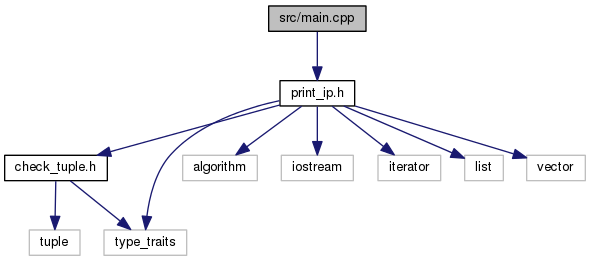
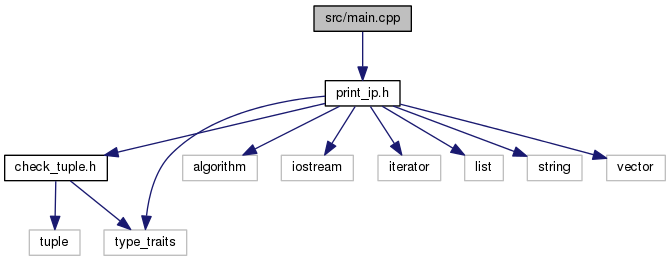
Deploy ithamsteri/homework_04 to github.com/ithamsteri/homework_04.git:gh-pages

diff --git a/print__ip_8h_source.html b/print__ip_8h_source.html
@@ -97,75 +97,76 @@ var searchBox = new SearchBox("searchBox", "search",false,'Search');
 <div class="line"><a name="l00013"></a><span class="lineno">   13</span>&#160;<span class="preprocessor">#include &lt;iostream&gt;</span></div>
 <div class="line"><a name="l00014"></a><span class="lineno">   14</span>&#160;<span class="preprocessor">#include &lt;iterator&gt;</span></div>
 <div class="line"><a name="l00015"></a><span class="lineno">   15</span>&#160;<span class="preprocessor">#include &lt;list&gt;</span></div>
-<div class="line"><a name="l00016"></a><span class="lineno">   16</span>&#160;<span class="preprocessor">#include &lt;type_traits&gt;</span></div>
-<div class="line"><a name="l00017"></a><span class="lineno">   17</span>&#160;<span class="preprocessor">#include &lt;vector&gt;</span></div>
-<div class="line"><a name="l00018"></a><span class="lineno">   18</span>&#160;</div>
-<div class="line"><a name="l00023"></a><span class="lineno">   23</span>&#160;<span class="keyword">template</span>&lt;<span class="keyword">typename</span> T&gt;</div>
-<div class="line"><a name="l00024"></a><span class="lineno">   24</span>&#160;<span class="keyword">typename</span> std::enable_if&lt;std::is_integral&lt;T&gt;::value, <span class="keywordtype">void</span>&gt;::type</div>
-<div class="line"><a name="l00025"></a><span class="lineno"><a class="line" href="print__ip_8h.html#a8711f0feb7bb037c76f5405afbf43814">   25</a></span>&#160;<a class="code" href="print__ip_8h.html#a8711f0feb7bb037c76f5405afbf43814">print_ip</a>(<span class="keyword">const</span> T&amp; value)</div>
-<div class="line"><a name="l00026"></a><span class="lineno">   26</span>&#160;{</div>
-<div class="line"><a name="l00027"></a><span class="lineno">   27</span>&#160;  <span class="keyword">auto</span> pLow = <span class="keyword">reinterpret_cast&lt;</span><span class="keyword">const </span><span class="keywordtype">unsigned</span> <span class="keywordtype">char</span>*<span class="keyword">&gt;</span>(&amp;value);</div>
-<div class="line"><a name="l00028"></a><span class="lineno">   28</span>&#160;  <span class="keyword">auto</span> pHigh = <span class="keyword">reinterpret_cast&lt;</span><span class="keyword">const </span><span class="keywordtype">unsigned</span> <span class="keywordtype">char</span>*<span class="keyword">&gt;</span>(&amp;value) + <span class="keyword">sizeof</span>(value);</div>
-<div class="line"><a name="l00029"></a><span class="lineno">   29</span>&#160;</div>
-<div class="line"><a name="l00030"></a><span class="lineno">   30</span>&#160;  <span class="comment">// print value from high byte to low byte</span></div>
-<div class="line"><a name="l00031"></a><span class="lineno">   31</span>&#160;  std::reverse_copy(pLow + 1, pHigh, std::ostream_iterator&lt;int&gt;(std::cout, <span class="stringliteral">&quot;.&quot;</span>));</div>
-<div class="line"><a name="l00032"></a><span class="lineno">   32</span>&#160;  std::cout &lt;&lt; static_cast&lt;int&gt;(*pLow) &lt;&lt; std::endl;</div>
-<div class="line"><a name="l00033"></a><span class="lineno">   33</span>&#160;}</div>
-<div class="line"><a name="l00034"></a><span class="lineno">   34</span>&#160;</div>
-<div class="line"><a name="l00038"></a><span class="lineno">   38</span>&#160;<span class="keywordtype">void</span></div>
-<div class="line"><a name="l00039"></a><span class="lineno"><a class="line" href="print__ip_8h.html#a3ad0eae435774cb3406a11cd0303ec0c">   39</a></span>&#160;<a class="code" href="print__ip_8h.html#a8711f0feb7bb037c76f5405afbf43814">print_ip</a>(<span class="keyword">const</span> std::string&amp; str)</div>
-<div class="line"><a name="l00040"></a><span class="lineno">   40</span>&#160;{</div>
-<div class="line"><a name="l00041"></a><span class="lineno">   41</span>&#160;  std::cout &lt;&lt; str &lt;&lt; std::endl;</div>
-<div class="line"><a name="l00042"></a><span class="lineno">   42</span>&#160;}</div>
-<div class="line"><a name="l00043"></a><span class="lineno">   43</span>&#160;</div>
-<div class="line"><a name="l00047"></a><span class="lineno">   47</span>&#160;<span class="keyword">template</span>&lt;<span class="keyword">typename</span> T&gt;</div>
-<div class="line"><a name="l00048"></a><span class="lineno">   48</span>&#160;<span class="keyword">typename</span> std::enable_if&lt;std::is_same&lt;std::vector&lt;typename T::value_type&gt;, T&gt;::value ||</div>
-<div class="line"><a name="l00049"></a><span class="lineno">   49</span>&#160;                          std::is_same&lt;std::list&lt;typename T::value_type&gt;, T&gt;::value,</div>
-<div class="line"><a name="l00050"></a><span class="lineno">   50</span>&#160;                        <span class="keywordtype">void</span>&gt;::type</div>
-<div class="line"><a name="l00051"></a><span class="lineno"><a class="line" href="print__ip_8h.html#a127903f98782bb43faf59689d8d1fc06">   51</a></span>&#160;<a class="code" href="print__ip_8h.html#a8711f0feb7bb037c76f5405afbf43814">print_ip</a>(<span class="keyword">const</span> T&amp; value)</div>
-<div class="line"><a name="l00052"></a><span class="lineno">   52</span>&#160;{</div>
-<div class="line"><a name="l00053"></a><span class="lineno">   53</span>&#160;  <span class="keywordflow">for</span> (<span class="keyword">const</span> <span class="keyword">auto</span>&amp; ip : value)</div>
-<div class="line"><a name="l00054"></a><span class="lineno">   54</span>&#160;    <a class="code" href="print__ip_8h.html#a8711f0feb7bb037c76f5405afbf43814">print_ip</a>(ip);</div>
-<div class="line"><a name="l00055"></a><span class="lineno">   55</span>&#160;}</div>
-<div class="line"><a name="l00056"></a><span class="lineno">   56</span>&#160;</div>
-<div class="line"><a name="l00057"></a><span class="lineno">   57</span>&#160;<span class="keyword">template</span>&lt;<span class="keywordtype">int</span> index, <span class="keyword">typename</span>... Ts&gt;</div>
-<div class="line"><a name="l00058"></a><span class="lineno"><a class="line" href="structprint__tuple.html">   58</a></span>&#160;<span class="keyword">struct </span><a class="code" href="structprint__tuple.html">print_tuple</a></div>
-<div class="line"><a name="l00059"></a><span class="lineno">   59</span>&#160;{</div>
-<div class="line"><a name="l00060"></a><span class="lineno"><a class="line" href="structprint__tuple.html#a686770e7b8eb33a8a94d976977be1016">   60</a></span>&#160;  <span class="keywordtype">void</span> <a class="code" href="structprint__tuple.html#a686770e7b8eb33a8a94d976977be1016">operator()</a>(<span class="keyword">const</span> std::tuple&lt;Ts...&gt;&amp; t)</div>
-<div class="line"><a name="l00061"></a><span class="lineno">   61</span>&#160;  {</div>
-<div class="line"><a name="l00062"></a><span class="lineno">   62</span>&#160;    <a class="code" href="structprint__tuple.html">print_tuple</a>&lt;index - 1, Ts...&gt;{}(t);</div>
-<div class="line"><a name="l00063"></a><span class="lineno">   63</span>&#160;    <a class="code" href="print__ip_8h.html#a8711f0feb7bb037c76f5405afbf43814">print_ip</a>(std::get&lt;index&gt;(t));</div>
-<div class="line"><a name="l00064"></a><span class="lineno">   64</span>&#160;  }</div>
-<div class="line"><a name="l00065"></a><span class="lineno">   65</span>&#160;};</div>
-<div class="line"><a name="l00066"></a><span class="lineno">   66</span>&#160;</div>
-<div class="line"><a name="l00067"></a><span class="lineno">   67</span>&#160;<span class="keyword">template</span>&lt;<span class="keyword">typename</span>... Ts&gt;</div>
-<div class="line"><a name="l00068"></a><span class="lineno"><a class="line" href="structprint__tuple_3_010_00_01Ts_8_8_8_4.html">   68</a></span>&#160;<span class="keyword">struct </span><a class="code" href="structprint__tuple.html">print_tuple</a>&lt;0, Ts...&gt;</div>
-<div class="line"><a name="l00069"></a><span class="lineno">   69</span>&#160;{</div>
-<div class="line"><a name="l00070"></a><span class="lineno"><a class="line" href="structprint__tuple_3_010_00_01Ts_8_8_8_4.html#a4a96810e772a3ee3db9638ed41b547c8">   70</a></span>&#160;  <span class="keywordtype">void</span> <a class="code" href="structprint__tuple_3_010_00_01Ts_8_8_8_4.html#a4a96810e772a3ee3db9638ed41b547c8">operator()</a>(<span class="keyword">const</span> std::tuple&lt;Ts...&gt;&amp; t) { <a class="code" href="print__ip_8h.html#a8711f0feb7bb037c76f5405afbf43814">print_ip</a>(std::get&lt;0&gt;(t)); }</div>
-<div class="line"><a name="l00071"></a><span class="lineno">   71</span>&#160;};</div>
-<div class="line"><a name="l00072"></a><span class="lineno">   72</span>&#160;</div>
-<div class="line"><a name="l00073"></a><span class="lineno">   73</span>&#160;<span class="keyword">template</span>&lt;<span class="keyword">typename</span>... Ts&gt;</div>
-<div class="line"><a name="l00074"></a><span class="lineno">   74</span>&#160;<span class="keywordtype">void</span></div>
-<div class="line"><a name="l00075"></a><span class="lineno"><a class="line" href="print__ip_8h.html#a54d46b202f963216604da44f69397bb7">   75</a></span>&#160;<a class="code" href="print__ip_8h.html#a54d46b202f963216604da44f69397bb7">print</a>(<span class="keyword">const</span> std::tuple&lt;Ts...&gt;&amp; t)</div>
-<div class="line"><a name="l00076"></a><span class="lineno">   76</span>&#160;{</div>
-<div class="line"><a name="l00077"></a><span class="lineno">   77</span>&#160;  <span class="keyword">const</span> <span class="keyword">auto</span> size = std::tuple_size&lt;std::tuple&lt;Ts...&gt;&gt;::value;</div>
-<div class="line"><a name="l00078"></a><span class="lineno">   78</span>&#160;  <a class="code" href="structprint__tuple.html">print_tuple</a>&lt;size - 1, Ts...&gt;{}(t);</div>
-<div class="line"><a name="l00079"></a><span class="lineno">   79</span>&#160;}</div>
-<div class="line"><a name="l00080"></a><span class="lineno">   80</span>&#160;</div>
-<div class="line"><a name="l00084"></a><span class="lineno">   84</span>&#160;<span class="keyword">template</span>&lt;<span class="keyword">typename</span> T, <span class="keyword">typename</span>... Ts&gt;</div>
-<div class="line"><a name="l00085"></a><span class="lineno">   85</span>&#160;<span class="keyword">typename</span> std::enable_if&lt;is_onetype_tuple&lt;T&gt;::value, <span class="keywordtype">void</span>&gt;::type</div>
-<div class="line"><a name="l00086"></a><span class="lineno"><a class="line" href="print__ip_8h.html#a7bfbb8e753c397846c26816b49ebba79">   86</a></span>&#160;<a class="code" href="print__ip_8h.html#a8711f0feb7bb037c76f5405afbf43814">print_ip</a>(<span class="keyword">const</span> T&amp; tuple)</div>
-<div class="line"><a name="l00087"></a><span class="lineno">   87</span>&#160;{</div>
-<div class="line"><a name="l00088"></a><span class="lineno">   88</span>&#160;  <a class="code" href="print__ip_8h.html#a54d46b202f963216604da44f69397bb7">print</a>(tuple);</div>
-<div class="line"><a name="l00089"></a><span class="lineno">   89</span>&#160;};</div>
-<div class="line"><a name="l00090"></a><span class="lineno">   90</span>&#160;</div>
-<div class="line"><a name="l00091"></a><span class="lineno">   91</span>&#160;<span class="preprocessor">#endif // PRINT_IP_H</span></div>
+<div class="line"><a name="l00016"></a><span class="lineno">   16</span>&#160;<span class="preprocessor">#include &lt;string&gt;</span></div>
+<div class="line"><a name="l00017"></a><span class="lineno">   17</span>&#160;<span class="preprocessor">#include &lt;type_traits&gt;</span></div>
+<div class="line"><a name="l00018"></a><span class="lineno">   18</span>&#160;<span class="preprocessor">#include &lt;vector&gt;</span></div>
+<div class="line"><a name="l00019"></a><span class="lineno">   19</span>&#160;</div>
+<div class="line"><a name="l00024"></a><span class="lineno">   24</span>&#160;<span class="keyword">template</span>&lt;<span class="keyword">typename</span> T&gt;</div>
+<div class="line"><a name="l00025"></a><span class="lineno">   25</span>&#160;<span class="keyword">typename</span> std::enable_if_t&lt;std::is_integral_v&lt;T&gt;, <span class="keywordtype">void</span>&gt;</div>
+<div class="line"><a name="l00026"></a><span class="lineno"><a class="line" href="print__ip_8h.html#a0fd1687febc6c7891345f3ef89208005">   26</a></span>&#160;<a class="code" href="print__ip_8h.html#a0fd1687febc6c7891345f3ef89208005">print_ip</a>(<span class="keyword">const</span> T&amp; value)</div>
+<div class="line"><a name="l00027"></a><span class="lineno">   27</span>&#160;{</div>
+<div class="line"><a name="l00028"></a><span class="lineno">   28</span>&#160;  <span class="keyword">auto</span> pLow = <span class="keyword">reinterpret_cast&lt;</span><span class="keyword">const </span><span class="keywordtype">unsigned</span> <span class="keywordtype">char</span>*<span class="keyword">&gt;</span>(&amp;value);</div>
+<div class="line"><a name="l00029"></a><span class="lineno">   29</span>&#160;  <span class="keyword">auto</span> pHigh = <span class="keyword">reinterpret_cast&lt;</span><span class="keyword">const </span><span class="keywordtype">unsigned</span> <span class="keywordtype">char</span>*<span class="keyword">&gt;</span>(&amp;value) + <span class="keyword">sizeof</span>(value);</div>
+<div class="line"><a name="l00030"></a><span class="lineno">   30</span>&#160;</div>
+<div class="line"><a name="l00031"></a><span class="lineno">   31</span>&#160;  <span class="comment">// print value from high byte to low byte</span></div>
+<div class="line"><a name="l00032"></a><span class="lineno">   32</span>&#160;  std::reverse_copy(pLow + 1, pHigh, std::ostream_iterator&lt;int&gt;(std::cout, <span class="stringliteral">&quot;.&quot;</span>));</div>
+<div class="line"><a name="l00033"></a><span class="lineno">   33</span>&#160;  std::cout &lt;&lt; static_cast&lt;int&gt;(*pLow) &lt;&lt; std::endl;</div>
+<div class="line"><a name="l00034"></a><span class="lineno">   34</span>&#160;}</div>
+<div class="line"><a name="l00035"></a><span class="lineno">   35</span>&#160;</div>
+<div class="line"><a name="l00039"></a><span class="lineno">   39</span>&#160;<span class="keywordtype">void</span></div>
+<div class="line"><a name="l00040"></a><span class="lineno"><a class="line" href="print__ip_8h.html#a3ad0eae435774cb3406a11cd0303ec0c">   40</a></span>&#160;<a class="code" href="print__ip_8h.html#a0fd1687febc6c7891345f3ef89208005">print_ip</a>(<span class="keyword">const</span> std::string&amp; str)</div>
+<div class="line"><a name="l00041"></a><span class="lineno">   41</span>&#160;{</div>
+<div class="line"><a name="l00042"></a><span class="lineno">   42</span>&#160;  std::cout &lt;&lt; str &lt;&lt; std::endl;</div>
+<div class="line"><a name="l00043"></a><span class="lineno">   43</span>&#160;}</div>
+<div class="line"><a name="l00044"></a><span class="lineno">   44</span>&#160;</div>
+<div class="line"><a name="l00048"></a><span class="lineno">   48</span>&#160;<span class="keyword">template</span>&lt;<span class="keyword">typename</span> T&gt;</div>
+<div class="line"><a name="l00049"></a><span class="lineno">   49</span>&#160;<span class="keyword">typename</span> std::enable_if_t&lt;std::is_same_v&lt;std::vector&lt;typename T::value_type, typename T::allocator_type&gt;, T&gt; ||</div>
+<div class="line"><a name="l00050"></a><span class="lineno">   50</span>&#160;                            std::is_same_v&lt;std::list&lt;typename T::value_type, typename T::allocator_type&gt;, T&gt;,</div>
+<div class="line"><a name="l00051"></a><span class="lineno">   51</span>&#160;                          <span class="keywordtype">void</span>&gt;</div>
+<div class="line"><a name="l00052"></a><span class="lineno"><a class="line" href="print__ip_8h.html#af292a446ff13bce3e6269efee458f030">   52</a></span>&#160;<a class="code" href="print__ip_8h.html#a0fd1687febc6c7891345f3ef89208005">print_ip</a>(<span class="keyword">const</span> T&amp; value)</div>
+<div class="line"><a name="l00053"></a><span class="lineno">   53</span>&#160;{</div>
+<div class="line"><a name="l00054"></a><span class="lineno">   54</span>&#160;  <span class="keywordflow">for</span> (<span class="keyword">const</span> <span class="keyword">auto</span>&amp; ip : value)</div>
+<div class="line"><a name="l00055"></a><span class="lineno">   55</span>&#160;    <a class="code" href="print__ip_8h.html#a0fd1687febc6c7891345f3ef89208005">print_ip</a>(ip);</div>
+<div class="line"><a name="l00056"></a><span class="lineno">   56</span>&#160;}</div>
+<div class="line"><a name="l00057"></a><span class="lineno">   57</span>&#160;</div>
+<div class="line"><a name="l00058"></a><span class="lineno">   58</span>&#160;<span class="keyword">template</span>&lt;<span class="keywordtype">int</span> index, <span class="keyword">typename</span>... Ts&gt;</div>
+<div class="line"><a name="l00059"></a><span class="lineno"><a class="line" href="structprint__tuple.html">   59</a></span>&#160;<span class="keyword">struct </span><a class="code" href="structprint__tuple.html">print_tuple</a></div>
+<div class="line"><a name="l00060"></a><span class="lineno">   60</span>&#160;{</div>
+<div class="line"><a name="l00061"></a><span class="lineno"><a class="line" href="structprint__tuple.html#a686770e7b8eb33a8a94d976977be1016">   61</a></span>&#160;  <span class="keywordtype">void</span> <a class="code" href="structprint__tuple.html#a686770e7b8eb33a8a94d976977be1016">operator()</a>(<span class="keyword">const</span> std::tuple&lt;Ts...&gt;&amp; t)</div>
+<div class="line"><a name="l00062"></a><span class="lineno">   62</span>&#160;  {</div>
+<div class="line"><a name="l00063"></a><span class="lineno">   63</span>&#160;    <a class="code" href="structprint__tuple.html">print_tuple</a>&lt;index - 1, Ts...&gt;{}(t);</div>
+<div class="line"><a name="l00064"></a><span class="lineno">   64</span>&#160;    <a class="code" href="print__ip_8h.html#a0fd1687febc6c7891345f3ef89208005">print_ip</a>(std::get&lt;index&gt;(t));</div>
+<div class="line"><a name="l00065"></a><span class="lineno">   65</span>&#160;  }</div>
+<div class="line"><a name="l00066"></a><span class="lineno">   66</span>&#160;};</div>
+<div class="line"><a name="l00067"></a><span class="lineno">   67</span>&#160;</div>
+<div class="line"><a name="l00068"></a><span class="lineno">   68</span>&#160;<span class="keyword">template</span>&lt;<span class="keyword">typename</span>... Ts&gt;</div>
+<div class="line"><a name="l00069"></a><span class="lineno"><a class="line" href="structprint__tuple_3_010_00_01Ts_8_8_8_4.html">   69</a></span>&#160;<span class="keyword">struct </span><a class="code" href="structprint__tuple.html">print_tuple</a>&lt;0, Ts...&gt;</div>
+<div class="line"><a name="l00070"></a><span class="lineno">   70</span>&#160;{</div>
+<div class="line"><a name="l00071"></a><span class="lineno"><a class="line" href="structprint__tuple_3_010_00_01Ts_8_8_8_4.html#a4a96810e772a3ee3db9638ed41b547c8">   71</a></span>&#160;  <span class="keywordtype">void</span> <a class="code" href="structprint__tuple_3_010_00_01Ts_8_8_8_4.html#a4a96810e772a3ee3db9638ed41b547c8">operator()</a>(<span class="keyword">const</span> std::tuple&lt;Ts...&gt;&amp; t) { <a class="code" href="print__ip_8h.html#a0fd1687febc6c7891345f3ef89208005">print_ip</a>(std::get&lt;0&gt;(t)); }</div>
+<div class="line"><a name="l00072"></a><span class="lineno">   72</span>&#160;};</div>
+<div class="line"><a name="l00073"></a><span class="lineno">   73</span>&#160;</div>
+<div class="line"><a name="l00074"></a><span class="lineno">   74</span>&#160;<span class="keyword">template</span>&lt;<span class="keyword">typename</span>... Ts&gt;</div>
+<div class="line"><a name="l00075"></a><span class="lineno">   75</span>&#160;<span class="keywordtype">void</span></div>
+<div class="line"><a name="l00076"></a><span class="lineno"><a class="line" href="print__ip_8h.html#a54d46b202f963216604da44f69397bb7">   76</a></span>&#160;<a class="code" href="print__ip_8h.html#a54d46b202f963216604da44f69397bb7">print</a>(<span class="keyword">const</span> std::tuple&lt;Ts...&gt;&amp; t)</div>
+<div class="line"><a name="l00077"></a><span class="lineno">   77</span>&#160;{</div>
+<div class="line"><a name="l00078"></a><span class="lineno">   78</span>&#160;  <span class="keyword">const</span> <span class="keyword">auto</span> size = std::tuple_size&lt;std::tuple&lt;Ts...&gt;&gt;::value;</div>
+<div class="line"><a name="l00079"></a><span class="lineno">   79</span>&#160;  <a class="code" href="structprint__tuple.html">print_tuple</a>&lt;size - 1, Ts...&gt;{}(t);</div>
+<div class="line"><a name="l00080"></a><span class="lineno">   80</span>&#160;}</div>
+<div class="line"><a name="l00081"></a><span class="lineno">   81</span>&#160;</div>
+<div class="line"><a name="l00085"></a><span class="lineno">   85</span>&#160;<span class="keyword">template</span>&lt;<span class="keyword">typename</span> T, <span class="keyword">typename</span>... Ts&gt;</div>
+<div class="line"><a name="l00086"></a><span class="lineno">   86</span>&#160;<span class="keyword">typename</span> std::enable_if_t&lt;is_onetype_tuple&lt;T&gt;::value, <span class="keywordtype">void</span>&gt;</div>
+<div class="line"><a name="l00087"></a><span class="lineno"><a class="line" href="print__ip_8h.html#ab4fbdd68f71e9dbb977896adfa4a1b28">   87</a></span>&#160;<a class="code" href="print__ip_8h.html#a0fd1687febc6c7891345f3ef89208005">print_ip</a>(<span class="keyword">const</span> T&amp; tuple)</div>
+<div class="line"><a name="l00088"></a><span class="lineno">   88</span>&#160;{</div>
+<div class="line"><a name="l00089"></a><span class="lineno">   89</span>&#160;  <a class="code" href="print__ip_8h.html#a54d46b202f963216604da44f69397bb7">print</a>(tuple);</div>
+<div class="line"><a name="l00090"></a><span class="lineno">   90</span>&#160;};</div>
+<div class="line"><a name="l00091"></a><span class="lineno">   91</span>&#160;</div>
+<div class="line"><a name="l00092"></a><span class="lineno">   92</span>&#160;<span class="preprocessor">#endif // PRINT_IP_H</span></div>
 <div class="ttc" id="check__tuple_8h_html"><div class="ttname"><a href="check__tuple_8h.html">check_tuple.h</a></div><div class="ttdoc">Header file for compile-time checking type of std::tuple. </div></div>
-<div class="ttc" id="structprint__tuple_html"><div class="ttname"><a href="structprint__tuple.html">print_tuple</a></div><div class="ttdef"><b>Definition:</b> print_ip.h:58</div></div>
-<div class="ttc" id="structprint__tuple_html_a686770e7b8eb33a8a94d976977be1016"><div class="ttname"><a href="structprint__tuple.html#a686770e7b8eb33a8a94d976977be1016">print_tuple::operator()</a></div><div class="ttdeci">void operator()(const std::tuple&lt; Ts...&gt; &amp;t)</div><div class="ttdef"><b>Definition:</b> print_ip.h:60</div></div>
-<div class="ttc" id="print__ip_8h_html_a8711f0feb7bb037c76f5405afbf43814"><div class="ttname"><a href="print__ip_8h.html#a8711f0feb7bb037c76f5405afbf43814">print_ip</a></div><div class="ttdeci">std::enable_if&lt; std::is_integral&lt; T &gt;::value, void &gt;::type print_ip(const T &amp;value)</div><div class="ttdoc">Print IP address. </div><div class="ttdef"><b>Definition:</b> print_ip.h:25</div></div>
-<div class="ttc" id="print__ip_8h_html_a54d46b202f963216604da44f69397bb7"><div class="ttname"><a href="print__ip_8h.html#a54d46b202f963216604da44f69397bb7">print</a></div><div class="ttdeci">void print(const std::tuple&lt; Ts...&gt; &amp;t)</div><div class="ttdef"><b>Definition:</b> print_ip.h:75</div></div>
-<div class="ttc" id="structprint__tuple_3_010_00_01Ts_8_8_8_4_html_a4a96810e772a3ee3db9638ed41b547c8"><div class="ttname"><a href="structprint__tuple_3_010_00_01Ts_8_8_8_4.html#a4a96810e772a3ee3db9638ed41b547c8">print_tuple&lt; 0, Ts...&gt;::operator()</a></div><div class="ttdeci">void operator()(const std::tuple&lt; Ts...&gt; &amp;t)</div><div class="ttdef"><b>Definition:</b> print_ip.h:70</div></div>
+<div class="ttc" id="structprint__tuple_html"><div class="ttname"><a href="structprint__tuple.html">print_tuple</a></div><div class="ttdef"><b>Definition:</b> print_ip.h:59</div></div>
+<div class="ttc" id="structprint__tuple_html_a686770e7b8eb33a8a94d976977be1016"><div class="ttname"><a href="structprint__tuple.html#a686770e7b8eb33a8a94d976977be1016">print_tuple::operator()</a></div><div class="ttdeci">void operator()(const std::tuple&lt; Ts...&gt; &amp;t)</div><div class="ttdef"><b>Definition:</b> print_ip.h:61</div></div>
+<div class="ttc" id="print__ip_8h_html_a0fd1687febc6c7891345f3ef89208005"><div class="ttname"><a href="print__ip_8h.html#a0fd1687febc6c7891345f3ef89208005">print_ip</a></div><div class="ttdeci">std::enable_if_t&lt; std::is_integral_v&lt; T &gt;, void &gt; print_ip(const T &amp;value)</div><div class="ttdoc">Print IP address. </div><div class="ttdef"><b>Definition:</b> print_ip.h:26</div></div>
+<div class="ttc" id="print__ip_8h_html_a54d46b202f963216604da44f69397bb7"><div class="ttname"><a href="print__ip_8h.html#a54d46b202f963216604da44f69397bb7">print</a></div><div class="ttdeci">void print(const std::tuple&lt; Ts...&gt; &amp;t)</div><div class="ttdef"><b>Definition:</b> print_ip.h:76</div></div>
+<div class="ttc" id="structprint__tuple_3_010_00_01Ts_8_8_8_4_html_a4a96810e772a3ee3db9638ed41b547c8"><div class="ttname"><a href="structprint__tuple_3_010_00_01Ts_8_8_8_4.html#a4a96810e772a3ee3db9638ed41b547c8">print_tuple&lt; 0, Ts...&gt;::operator()</a></div><div class="ttdeci">void operator()(const std::tuple&lt; Ts...&gt; &amp;t)</div><div class="ttdef"><b>Definition:</b> print_ip.h:71</div></div>
 </div><!-- fragment --></div><!-- contents -->
 <!-- start footer part -->
 <hr class="footer"/><address class="footer"><small>

diff --git a/print__ip_8h.html b/print__ip_8h.html
@@ -99,6 +99,7 @@ var searchBox = new SearchBox("searchBox", "search",false,'Search');
 <code>#include &lt;iostream&gt;</code><br/>
 <code>#include &lt;iterator&gt;</code><br/>
 <code>#include &lt;list&gt;</code><br/>
+<code>#include &lt;string&gt;</code><br/>
 <code>#include &lt;type_traits&gt;</code><br/>
 <code>#include &lt;vector&gt;</code><br/>
 </div><div class="textblock"><div class="dynheader">
@@ -127,33 +128,35 @@ Classes</h2></td></tr>
 </table><table class="memberdecls">
 <tr class="heading"><td colspan="2"><h2 class="groupheader"><a name="func-members"></a>
 Functions</h2></td></tr>
-<tr class="memitem:a8711f0feb7bb037c76f5405afbf43814"><td class="memTemplParams" colspan="2">template&lt;typename T &gt; </td></tr>
-<tr class="memitem:a8711f0feb7bb037c76f5405afbf43814"><td class="memTemplItemLeft" align="right" valign="top">std::enable_if<br class="typebreak"/>
-&lt; std::is_integral&lt; T &gt;::value, <br class="typebreak"/>
-void &gt;::type&#160;</td><td class="memTemplItemRight" valign="bottom"><a class="el" href="print__ip_8h.html#a8711f0feb7bb037c76f5405afbf43814">print_ip</a> (const T &amp;value)</td></tr>
-<tr class="memdesc:a8711f0feb7bb037c76f5405afbf43814"><td class="mdescLeft">&#160;</td><td class="mdescRight">Print IP address.  <a href="#a8711f0feb7bb037c76f5405afbf43814">More...</a><br/></td></tr>
-<tr class="separator:a8711f0feb7bb037c76f5405afbf43814"><td class="memSeparator" colspan="2">&#160;</td></tr>
+<tr class="memitem:a0fd1687febc6c7891345f3ef89208005"><td class="memTemplParams" colspan="2">template&lt;typename T &gt; </td></tr>
+<tr class="memitem:a0fd1687febc6c7891345f3ef89208005"><td class="memTemplItemLeft" align="right" valign="top">std::enable_if_t<br class="typebreak"/>
+&lt; std::is_integral_v&lt; T &gt;<br class="typebreak"/>
+, void &gt;&#160;</td><td class="memTemplItemRight" valign="bottom"><a class="el" href="print__ip_8h.html#a0fd1687febc6c7891345f3ef89208005">print_ip</a> (const T &amp;value)</td></tr>
+<tr class="memdesc:a0fd1687febc6c7891345f3ef89208005"><td class="mdescLeft">&#160;</td><td class="mdescRight">Print IP address.  <a href="#a0fd1687febc6c7891345f3ef89208005">More...</a><br/></td></tr>
+<tr class="separator:a0fd1687febc6c7891345f3ef89208005"><td class="memSeparator" colspan="2">&#160;</td></tr>
 <tr class="memitem:a3ad0eae435774cb3406a11cd0303ec0c"><td class="memItemLeft" align="right" valign="top">void&#160;</td><td class="memItemRight" valign="bottom"><a class="el" href="print__ip_8h.html#a3ad0eae435774cb3406a11cd0303ec0c">print_ip</a> (const std::string &amp;str)</td></tr>
 <tr class="memdesc:a3ad0eae435774cb3406a11cd0303ec0c"><td class="mdescLeft">&#160;</td><td class="mdescRight">Print IP address.  <a href="#a3ad0eae435774cb3406a11cd0303ec0c">More...</a><br/></td></tr>
 <tr class="separator:a3ad0eae435774cb3406a11cd0303ec0c"><td class="memSeparator" colspan="2">&#160;</td></tr>
-<tr class="memitem:a127903f98782bb43faf59689d8d1fc06"><td class="memTemplParams" colspan="2">template&lt;typename T &gt; </td></tr>
-<tr class="memitem:a127903f98782bb43faf59689d8d1fc06"><td class="memTemplItemLeft" align="right" valign="top">std::enable_if&lt; std::is_same<br class="typebreak"/>
-&lt; std::vector&lt; typename <br class="typebreak"/>
-T::value_type &gt;, T &gt;::value||std::is_same<br class="typebreak"/>
+<tr class="memitem:af292a446ff13bce3e6269efee458f030"><td class="memTemplParams" colspan="2">template&lt;typename T &gt; </td></tr>
+<tr class="memitem:af292a446ff13bce3e6269efee458f030"><td class="memTemplItemLeft" align="right" valign="top">std::enable_if_t<br class="typebreak"/>
+&lt; std::is_same_v&lt; std::vector<br class="typebreak"/>
+&lt; typename T::value_type, <br class="typebreak"/>
+typename T::allocator_type &gt;<br class="typebreak"/>
+, T &gt;||std::is_same_v<br class="typebreak"/>
 &lt; std::list&lt; typename <br class="typebreak"/>
-T::value_type &gt;, T &gt;::value, <br class="typebreak"/>
-void &gt;::type&#160;</td><td class="memTemplItemRight" valign="bottom"><a class="el" href="print__ip_8h.html#a127903f98782bb43faf59689d8d1fc06">print_ip</a> (const T &amp;value)</td></tr>
-<tr class="memdesc:a127903f98782bb43faf59689d8d1fc06"><td class="mdescLeft">&#160;</td><td class="mdescRight">Print IP address.  <a href="#a127903f98782bb43faf59689d8d1fc06">More...</a><br/></td></tr>
-<tr class="separator:a127903f98782bb43faf59689d8d1fc06"><td class="memSeparator" colspan="2">&#160;</td></tr>
+T::value_type, typename <br class="typebreak"/>
+T::allocator_type &gt;, T &gt;, void &gt;&#160;</td><td class="memTemplItemRight" valign="bottom"><a class="el" href="print__ip_8h.html#af292a446ff13bce3e6269efee458f030">print_ip</a> (const T &amp;value)</td></tr>
+<tr class="memdesc:af292a446ff13bce3e6269efee458f030"><td class="mdescLeft">&#160;</td><td class="mdescRight">Print IP address.  <a href="#af292a446ff13bce3e6269efee458f030">More...</a><br/></td></tr>
+<tr class="separator:af292a446ff13bce3e6269efee458f030"><td class="memSeparator" colspan="2">&#160;</td></tr>
 <tr class="memitem:a54d46b202f963216604da44f69397bb7"><td class="memTemplParams" colspan="2">template&lt;typename... Ts&gt; </td></tr>
 <tr class="memitem:a54d46b202f963216604da44f69397bb7"><td class="memTemplItemLeft" align="right" valign="top">void&#160;</td><td class="memTemplItemRight" valign="bottom"><a class="el" href="print__ip_8h.html#a54d46b202f963216604da44f69397bb7">print</a> (const std::tuple&lt; Ts...&gt; &amp;t)</td></tr>
 <tr class="separator:a54d46b202f963216604da44f69397bb7"><td class="memSeparator" colspan="2">&#160;</td></tr>
-<tr class="memitem:a7bfbb8e753c397846c26816b49ebba79"><td class="memTemplParams" colspan="2">template&lt;typename T , typename... Ts&gt; </td></tr>
-<tr class="memitem:a7bfbb8e753c397846c26816b49ebba79"><td class="memTemplItemLeft" align="right" valign="top">std::enable_if<br class="typebreak"/>
+<tr class="memitem:ab4fbdd68f71e9dbb977896adfa4a1b28"><td class="memTemplParams" colspan="2">template&lt;typename T , typename... Ts&gt; </td></tr>
+<tr class="memitem:ab4fbdd68f71e9dbb977896adfa4a1b28"><td class="memTemplItemLeft" align="right" valign="top">std::enable_if_t<br class="typebreak"/>
 &lt; <a class="el" href="structis__onetype__tuple.html">is_onetype_tuple</a>&lt; T &gt;::value, <br class="typebreak"/>
-void &gt;::type&#160;</td><td class="memTemplItemRight" valign="bottom"><a class="el" href="print__ip_8h.html#a7bfbb8e753c397846c26816b49ebba79">print_ip</a> (const T &amp;tuple)</td></tr>
-<tr class="memdesc:a7bfbb8e753c397846c26816b49ebba79"><td class="mdescLeft">&#160;</td><td class="mdescRight">Print IP address.  <a href="#a7bfbb8e753c397846c26816b49ebba79">More...</a><br/></td></tr>
-<tr class="separator:a7bfbb8e753c397846c26816b49ebba79"><td class="memSeparator" colspan="2">&#160;</td></tr>
+void &gt;&#160;</td><td class="memTemplItemRight" valign="bottom"><a class="el" href="print__ip_8h.html#ab4fbdd68f71e9dbb977896adfa4a1b28">print_ip</a> (const T &amp;tuple)</td></tr>
+<tr class="memdesc:ab4fbdd68f71e9dbb977896adfa4a1b28"><td class="mdescLeft">&#160;</td><td class="mdescRight">Print IP address.  <a href="#ab4fbdd68f71e9dbb977896adfa4a1b28">More...</a><br/></td></tr>
+<tr class="separator:ab4fbdd68f71e9dbb977896adfa4a1b28"><td class="memSeparator" colspan="2">&#160;</td></tr>
 </table>
 <a name="details" id="details"></a><h2 class="groupheader">Detailed Description</h2>
 <div class="textblock"><p>Header file with IP address print functions. </p>
@@ -177,14 +180,14 @@ template&lt;typename... Ts&gt; </div>
 
 </div>
 </div>
-<a class="anchor" id="a8711f0feb7bb037c76f5405afbf43814"></a>
+<a class="anchor" id="a0fd1687febc6c7891345f3ef89208005"></a>
 <div class="memitem">
 <div class="memproto">
 <div class="memtemplate">
 template&lt;typename T &gt; </div>
       <table class="memname">
         <tr>
-          <td class="memname">std::enable_if&lt;std::is_integral&lt;T&gt;::value, void&gt;::type print_ip </td>
+          <td class="memname">std::enable_if_t&lt;std::is_integral_v&lt;T&gt;, void&gt; print_ip </td>
           <td>(</td>
           <td class="paramtype">const T &amp;&#160;</td>
           <td class="paramname"><em>value</em></td><td>)</td>
@@ -205,9 +208,9 @@ template&lt;typename T &gt; </div>
 <p><div class="dynheader">
 Here is the caller graph for this function:</div>
 <div class="dyncontent">
-<div class="center"><img src="print__ip_8h_a8711f0feb7bb037c76f5405afbf43814_icgraph.png" border="0" usemap="#print__ip_8h_a8711f0feb7bb037c76f5405afbf43814_icgraph" alt=""/></div>
-<map name="print__ip_8h_a8711f0feb7bb037c76f5405afbf43814_icgraph" id="print__ip_8h_a8711f0feb7bb037c76f5405afbf43814_icgraph">
-<area shape="rect" id="node2" href="main_8cpp.html#a81ce304348a420752ee080480d2b3095" title="Main function. " alt="" coords="191,5,241,32"/><area shape="rect" id="node3" href="print__ip_8h.html#a127903f98782bb43faf59689d8d1fc06" title="Print IP address. " alt="" coords="184,56,248,83"/><area shape="rect" id="node4" href="structprint__tuple.html#a686770e7b8eb33a8a94d976977be1016" title="print_tuple::operator()" alt="" coords="143,107,289,133"/><area shape="rect" id="node5" href="structprint__tuple_3_010_00_01Ts_8_8_8_4.html#a4a96810e772a3ee3db9638ed41b547c8" title="print_tuple\&lt; 0, Ts...\&gt;\l::operator()" alt="" coords="144,158,288,199"/><area shape="rect" id="node6" href="print__ip_8test_8cpp.html#ac3b24ea99d5bd04df5c4d5792d76faf4" title="BOOST_AUTO_TEST_CASE" alt="" coords="117,224,315,251"/></map>
+<div class="center"><img src="print__ip_8h_a0fd1687febc6c7891345f3ef89208005_icgraph.png" border="0" usemap="#print__ip_8h_a0fd1687febc6c7891345f3ef89208005_icgraph" alt=""/></div>
+<map name="print__ip_8h_a0fd1687febc6c7891345f3ef89208005_icgraph" id="print__ip_8h_a0fd1687febc6c7891345f3ef89208005_icgraph">
+<area shape="rect" id="node2" href="main_8cpp.html#a81ce304348a420752ee080480d2b3095" title="Main function. " alt="" coords="191,5,241,32"/><area shape="rect" id="node3" href="print__ip_8h.html#af292a446ff13bce3e6269efee458f030" title="Print IP address. " alt="" coords="184,56,248,83"/><area shape="rect" id="node4" href="structprint__tuple.html#a686770e7b8eb33a8a94d976977be1016" title="print_tuple::operator()" alt="" coords="143,107,289,133"/><area shape="rect" id="node5" href="structprint__tuple_3_010_00_01Ts_8_8_8_4.html#a4a96810e772a3ee3db9638ed41b547c8" title="print_tuple\&lt; 0, Ts...\&gt;\l::operator()" alt="" coords="144,158,288,199"/><area shape="rect" id="node6" href="print__ip_8test_8cpp.html#ac3b24ea99d5bd04df5c4d5792d76faf4" title="BOOST_AUTO_TEST_CASE" alt="" coords="117,224,315,251"/></map>
 </div>
 </p>
 
@@ -238,14 +241,14 @@ Here is the caller graph for this function:</div>
 
 </div>
 </div>
-<a class="anchor" id="a127903f98782bb43faf59689d8d1fc06"></a>
+<a class="anchor" id="af292a446ff13bce3e6269efee458f030"></a>
 <div class="memitem">
 <div class="memproto">
 <div class="memtemplate">
 template&lt;typename T &gt; </div>
       <table class="memname">
         <tr>
-          <td class="memname">std::enable_if&lt;std::is_same&lt;std::vector&lt;typename T::value_type&gt;, T&gt;::value || std::is_same&lt;std::list&lt;typename T::value_type&gt;, T&gt;::value, void&gt;::type print_ip </td>
+          <td class="memname">std::enable_if_t&lt;std::is_same_v&lt;std::vector&lt;typename T::value_type, typename T::allocator_type&gt;, T&gt; || std::is_same_v&lt;std::list&lt;typename T::value_type, typename T::allocator_type&gt;, T&gt;, void&gt; print_ip </td>
           <td>(</td>
           <td class="paramtype">const T &amp;&#160;</td>
           <td class="paramname"><em>value</em></td><td>)</td>
@@ -265,14 +268,14 @@ template&lt;typename T &gt; </div>
 
 </div>
 </div>
-<a class="anchor" id="a7bfbb8e753c397846c26816b49ebba79"></a>
+<a class="anchor" id="ab4fbdd68f71e9dbb977896adfa4a1b28"></a>
 <div class="memitem">
 <div class="memproto">
 <div class="memtemplate">
 template&lt;typename T , typename... Ts&gt; </div>
       <table class="memname">
         <tr>
-          <td class="memname">std::enable_if&lt;<a class="el" href="structis__onetype__tuple.html">is_onetype_tuple</a>&lt;T&gt;::value, void&gt;::type print_ip </td>
+          <td class="memname">std::enable_if_t&lt;<a class="el" href="structis__onetype__tuple.html">is_onetype_tuple</a>&lt;T&gt;::value, void&gt; print_ip </td>
           <td>(</td>
           <td class="paramtype">const T &amp;&#160;</td>
           <td class="paramname"><em>tuple</em></td><td>)</td>

diff --git a/search/all_5.js b/search/all_5.js
@@ -1,7 +1,7 @@
 var searchData=
 [
   ['print',['print',['../print__ip_8h.html#a54d46b202f963216604da44f69397bb7',1,'print_ip.h']]],
-  ['print_5fip',['print_ip',['../print__ip_8h.html#a8711f0feb7bb037c76f5405afbf43814',1,'print_ip(const T &amp;value):&#160;print_ip.h'],['../print__ip_8h.html#a3ad0eae435774cb3406a11cd0303ec0c',1,'print_ip(const std::string &amp;str):&#160;print_ip.h'],['../print__ip_8h.html#a127903f98782bb43faf59689d8d1fc06',1,'print_ip(const T &amp;value):&#160;print_ip.h'],['../print__ip_8h.html#a7bfbb8e753c397846c26816b49ebba79',1,'print_ip(const T &amp;tuple):&#160;print_ip.h']]],
+  ['print_5fip',['print_ip',['../print__ip_8h.html#a0fd1687febc6c7891345f3ef89208005',1,'print_ip(const T &amp;value):&#160;print_ip.h'],['../print__ip_8h.html#a3ad0eae435774cb3406a11cd0303ec0c',1,'print_ip(const std::string &amp;str):&#160;print_ip.h'],['../print__ip_8h.html#af292a446ff13bce3e6269efee458f030',1,'print_ip(const T &amp;value):&#160;print_ip.h'],['../print__ip_8h.html#ab4fbdd68f71e9dbb977896adfa4a1b28',1,'print_ip(const T &amp;tuple):&#160;print_ip.h']]],
   ['print_5fip_2eh',['print_ip.h',['../print__ip_8h.html',1,'']]],
   ['print_5fip_2etest_2ecpp',['print_ip.test.cpp',['../print__ip_8test_8cpp.html',1,'']]],
   ['print_5ftuple',['print_tuple',['../structprint__tuple.html',1,'']]],

diff --git a/search/functions_3.js b/search/functions_3.js
@@ -1,5 +1,5 @@
 var searchData=
 [
   ['print',['print',['../print__ip_8h.html#a54d46b202f963216604da44f69397bb7',1,'print_ip.h']]],
-  ['print_5fip',['print_ip',['../print__ip_8h.html#a8711f0feb7bb037c76f5405afbf43814',1,'print_ip(const T &amp;value):&#160;print_ip.h'],['../print__ip_8h.html#a3ad0eae435774cb3406a11cd0303ec0c',1,'print_ip(const std::string &amp;str):&#160;print_ip.h'],['../print__ip_8h.html#a127903f98782bb43faf59689d8d1fc06',1,'print_ip(const T &amp;value):&#160;print_ip.h'],['../print__ip_8h.html#a7bfbb8e753c397846c26816b49ebba79',1,'print_ip(const T &amp;tuple):&#160;print_ip.h']]]
+  ['print_5fip',['print_ip',['../print__ip_8h.html#a0fd1687febc6c7891345f3ef89208005',1,'print_ip(const T &amp;value):&#160;print_ip.h'],['../print__ip_8h.html#a3ad0eae435774cb3406a11cd0303ec0c',1,'print_ip(const std::string &amp;str):&#160;print_ip.h'],['../print__ip_8h.html#af292a446ff13bce3e6269efee458f030',1,'print_ip(const T &amp;value):&#160;print_ip.h'],['../print__ip_8h.html#ab4fbdd68f71e9dbb977896adfa4a1b28',1,'print_ip(const T &amp;tuple):&#160;print_ip.h']]]
 ];

diff --git a/print__ip_8test_8cpp.html b/print__ip_8test_8cpp.html
@@ -102,7 +102,7 @@ Include dependency graph for print_ip.test.cpp:</div>
 <div class="dyncontent">
 <div class="center"><img src="print__ip_8test_8cpp__incl.png" border="0" usemap="#tests_2print__ip_8test_8cpp" alt=""/></div>
 <map name="tests_2print__ip_8test_8cpp" id="tests_2print__ip_8test_8cpp">
-<area shape="rect" id="node3" href="print__ip_8h.html" title="Header file with IP address print functions. " alt="" coords="280,80,353,107"/><area shape="rect" id="node4" href="check__tuple_8h.html" title="Header file for compile&#45;time checking type of std::tuple. " alt="" coords="5,155,107,181"/></map>
+<area shape="rect" id="node3" href="print__ip_8h.html" title="Header file with IP address print functions. " alt="" coords="327,80,400,107"/><area shape="rect" id="node4" href="check__tuple_8h.html" title="Header file for compile&#45;time checking type of std::tuple. " alt="" coords="5,155,107,181"/></map>
 </div>
 </div><table class="memberdecls">
 <tr class="heading"><td colspan="2"><h2 class="groupheader"><a name="define-members"></a>

diff --git a/main_8cpp.html b/main_8cpp.html
@@ -99,7 +99,7 @@ Include dependency graph for main.cpp:</div>
 <div class="dyncontent">
 <div class="center"><img src="main_8cpp__incl.png" border="0" usemap="#src_2main_8cpp" alt=""/></div>
 <map name="src_2main_8cpp" id="src_2main_8cpp">
-<area shape="rect" id="node2" href="print__ip_8h.html" title="Header file with IP address print functions. " alt="" coords="280,80,353,107"/><area shape="rect" id="node3" href="check__tuple_8h.html" title="Header file for compile&#45;time checking type of std::tuple. " alt="" coords="5,155,107,181"/></map>
+<area shape="rect" id="node2" href="print__ip_8h.html" title="Header file with IP address print functions. " alt="" coords="325,80,399,107"/><area shape="rect" id="node3" href="check__tuple_8h.html" title="Header file for compile&#45;time checking type of std::tuple. " alt="" coords="5,155,107,181"/></map>
 </div>
 </div><table class="memberdecls">
 <tr class="heading"><td colspan="2"><h2 class="groupheader"><a name="func-members"></a>

diff --git a/index.html b/index.html
@@ -81,7 +81,7 @@ var searchBox = new SearchBox("searchBox", "search",false,'Search');
 <div class="textblock"><h1><a class="anchor" id="intro_sec"></a>
 Introduction</h1>
 <p>This is program is sample for use Doxygen documentation generator.</p>
-<dl class="section see"><dt>See Also</dt><dd><a class="el" href="print__ip_8h.html#a8711f0feb7bb037c76f5405afbf43814" title="Print IP address. ">print_ip()</a> </dd></dl>
+<dl class="section see"><dt>See Also</dt><dd><a class="el" href="print__ip_8h.html#a0fd1687febc6c7891345f3ef89208005" title="Print IP address. ">print_ip()</a> </dd></dl>
 </div></div><!-- contents -->
 <!-- start footer part -->
 <hr class="footer"/><address class="footer"><small>

diff --git a/globals.html b/globals.html
@@ -101,7 +101,7 @@ var searchBox = new SearchBox("searchBox", "search",false,'Search');
 : <a class="el" href="print__ip_8h.html#a54d46b202f963216604da44f69397bb7">print_ip.h</a>
 </li>
 <li>print_ip()
-: <a class="el" href="print__ip_8h.html#a8711f0feb7bb037c76f5405afbf43814">print_ip.h</a>
+: <a class="el" href="print__ip_8h.html#a0fd1687febc6c7891345f3ef89208005">print_ip.h</a>
 </li>
 <li>TEST_STDOUT
 : <a class="el" href="print__ip_8test_8cpp.html#a76f9b16e8562d34f8b0b473c78230fbb">print_ip.test.cpp</a>

diff --git a/globals_func.html b/globals_func.html
@@ -98,7 +98,7 @@ var searchBox = new SearchBox("searchBox", "search",false,'Search');
 : <a class="el" href="print__ip_8h.html#a54d46b202f963216604da44f69397bb7">print_ip.h</a>
 </li>
 <li>print_ip()
-: <a class="el" href="print__ip_8h.html#a7bfbb8e753c397846c26816b49ebba79">print_ip.h</a>
+: <a class="el" href="print__ip_8h.html#ab4fbdd68f71e9dbb977896adfa4a1b28">print_ip.h</a>
 </li>
 </ul>
 </div><!-- contents -->
